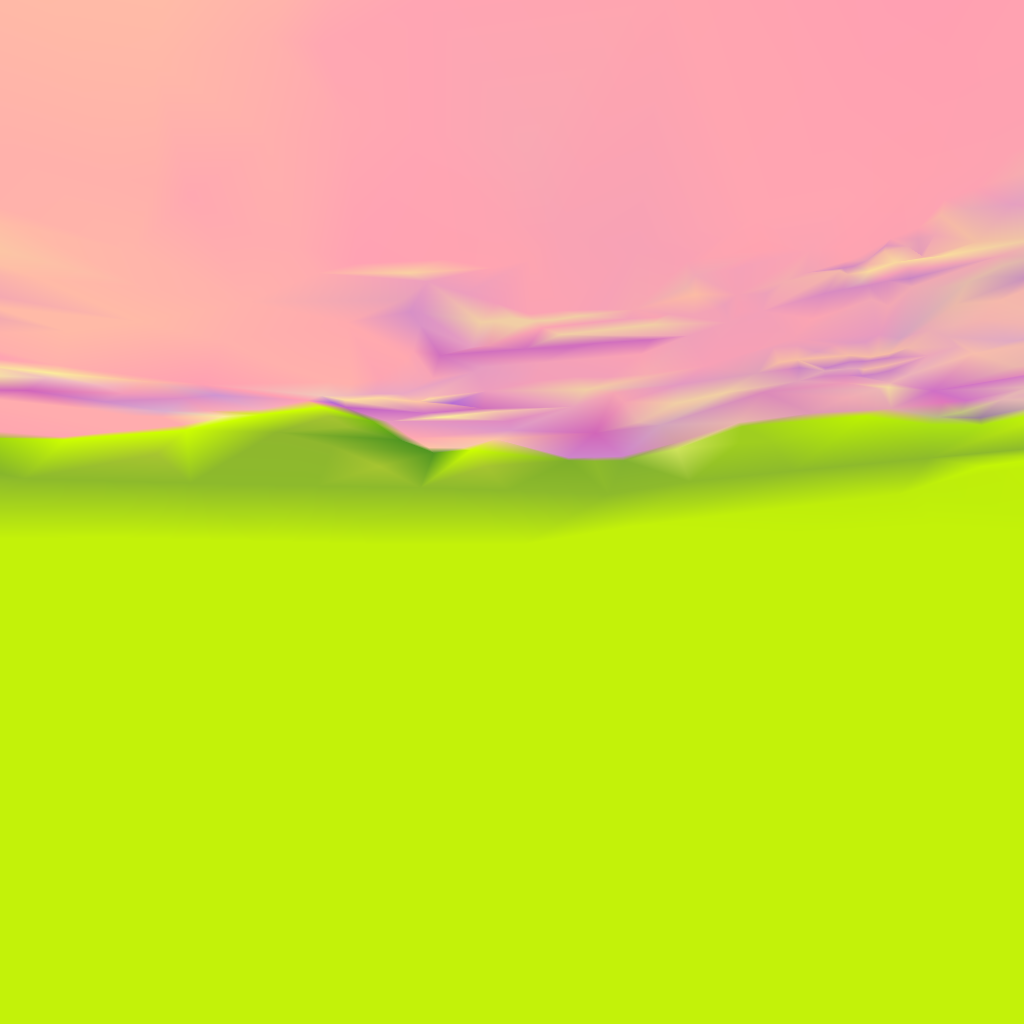
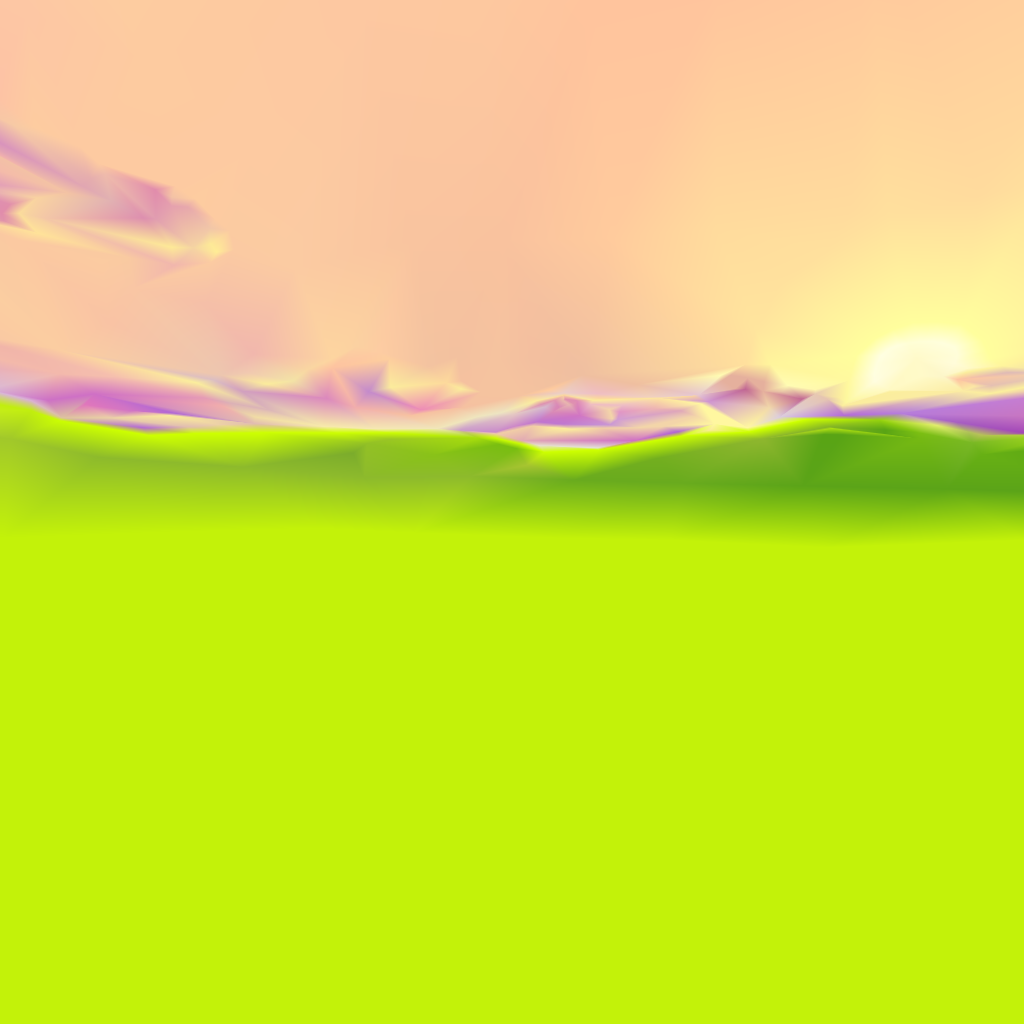
Testing texture fix

diff --git a/js/main.js b/js/main.js
@@ -1,4 +1,4 @@
-let scene, camera, renderer, skyboxGeo, skybox, myReq;
+let scene, camera, renderer, skyboxGeo, skybox, myReq, counter;
 
 function createMaterialArray() {
   const skyboxImagepaths = ([
@@ -52,7 +52,9 @@ function onWindowResize() {
 
 function animate() {
 
-  //skybox.rotation.x += 0.001;
+  counter += 0.001
+
+  skybox.rotation.x += Math.sin(counter);
   skybox.rotation.y += 0.001;
 
   renderer.render(scene, camera);
